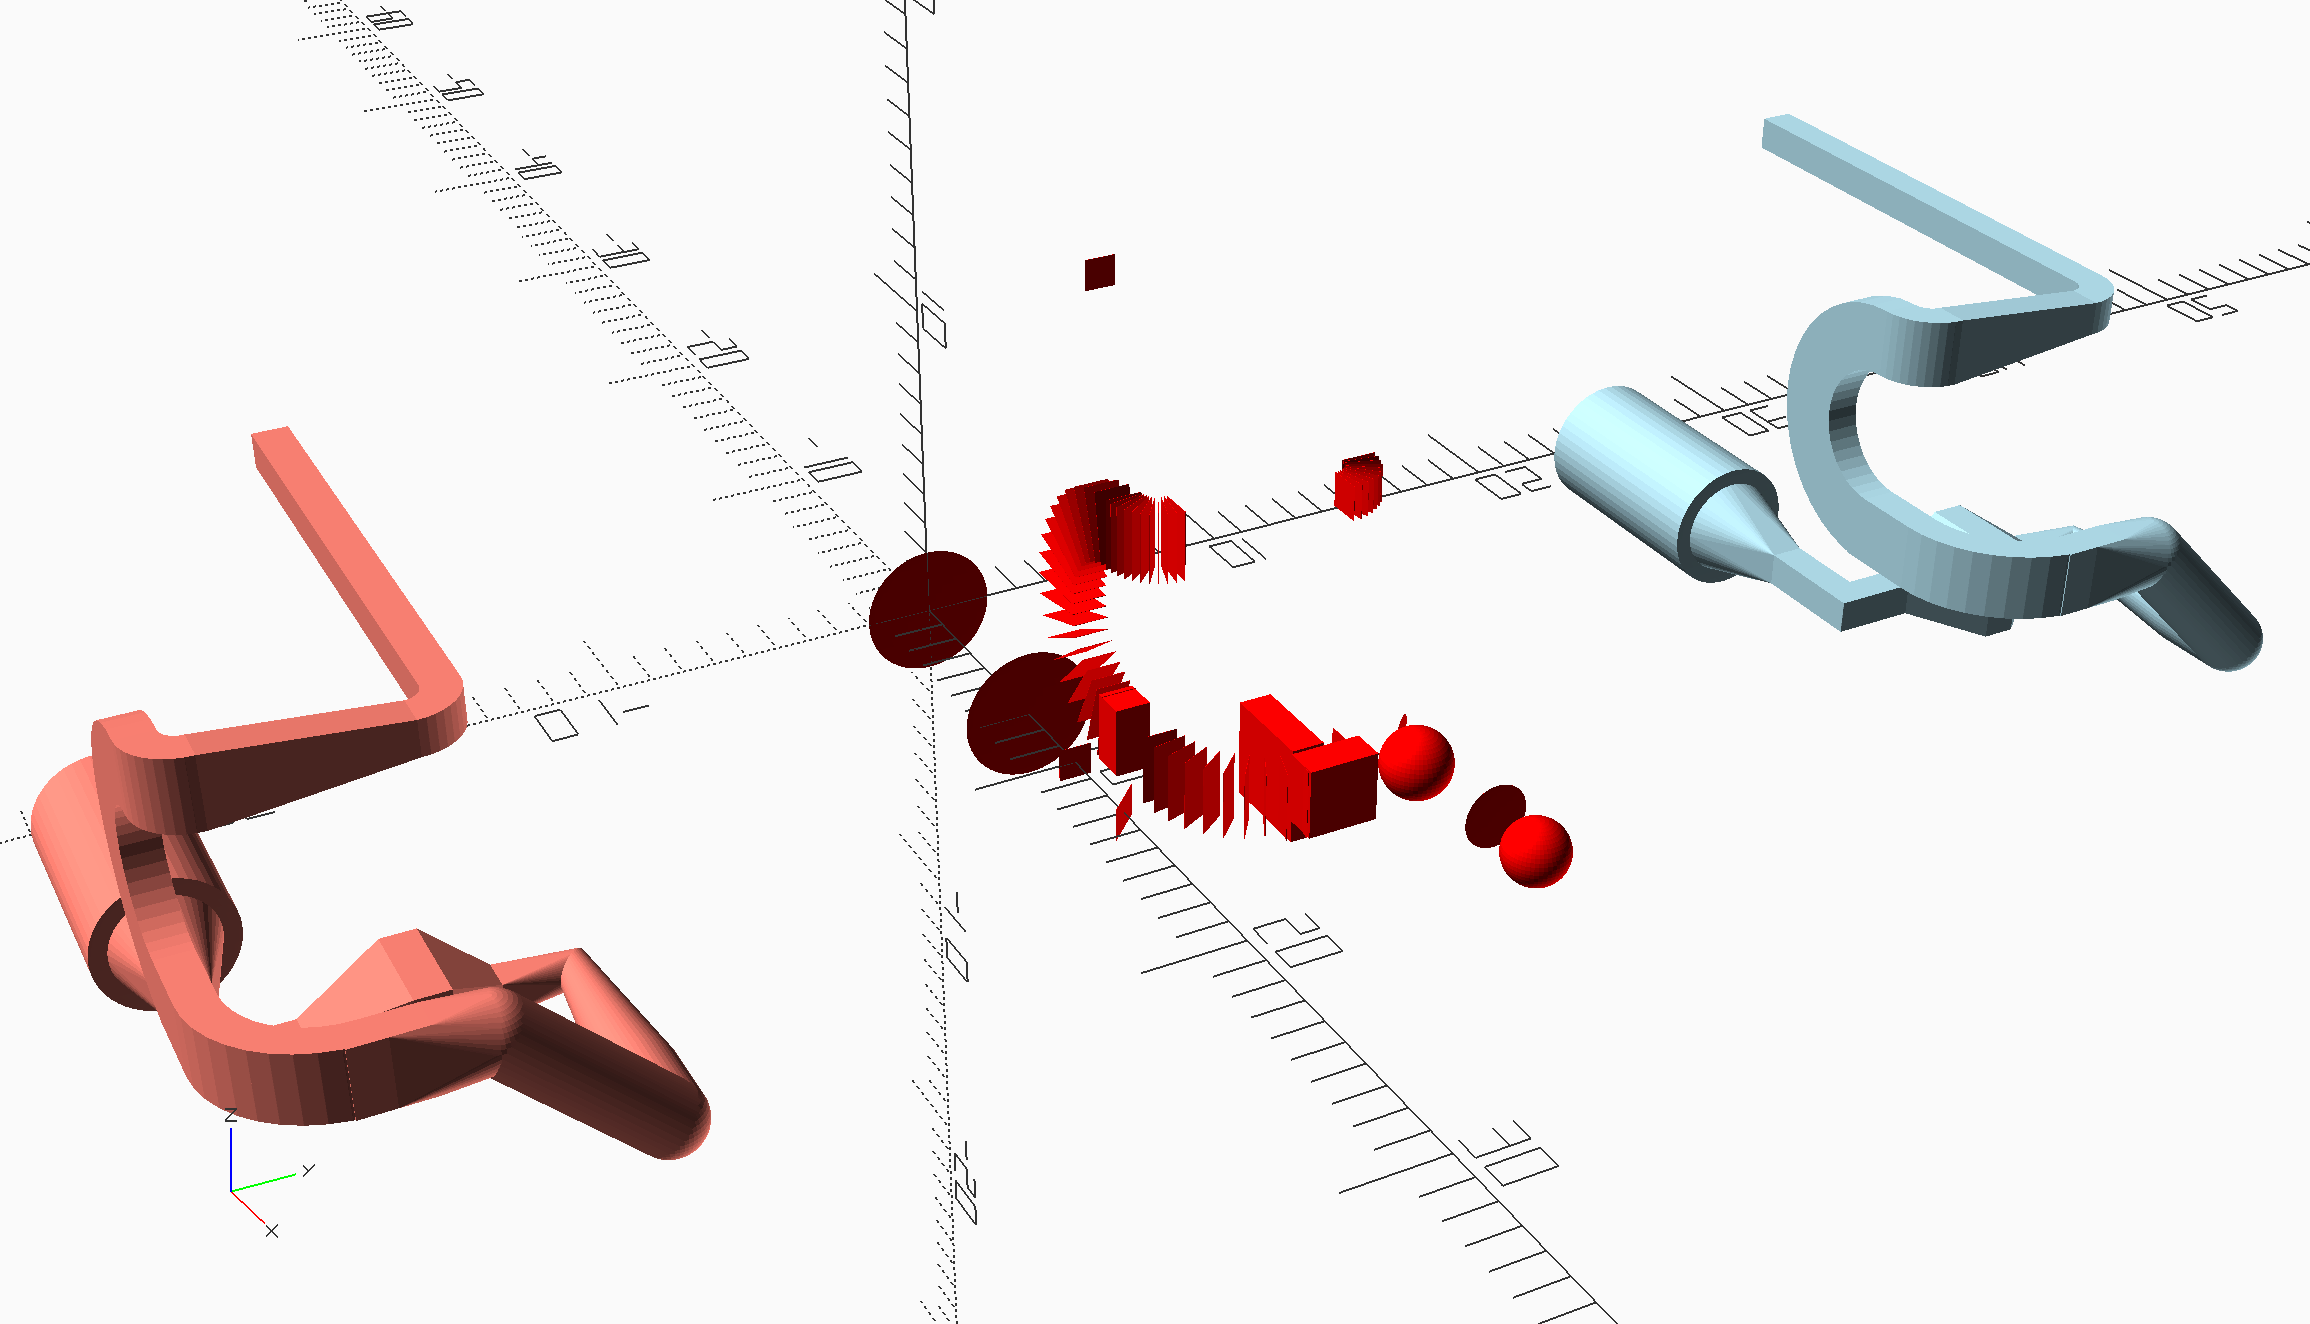
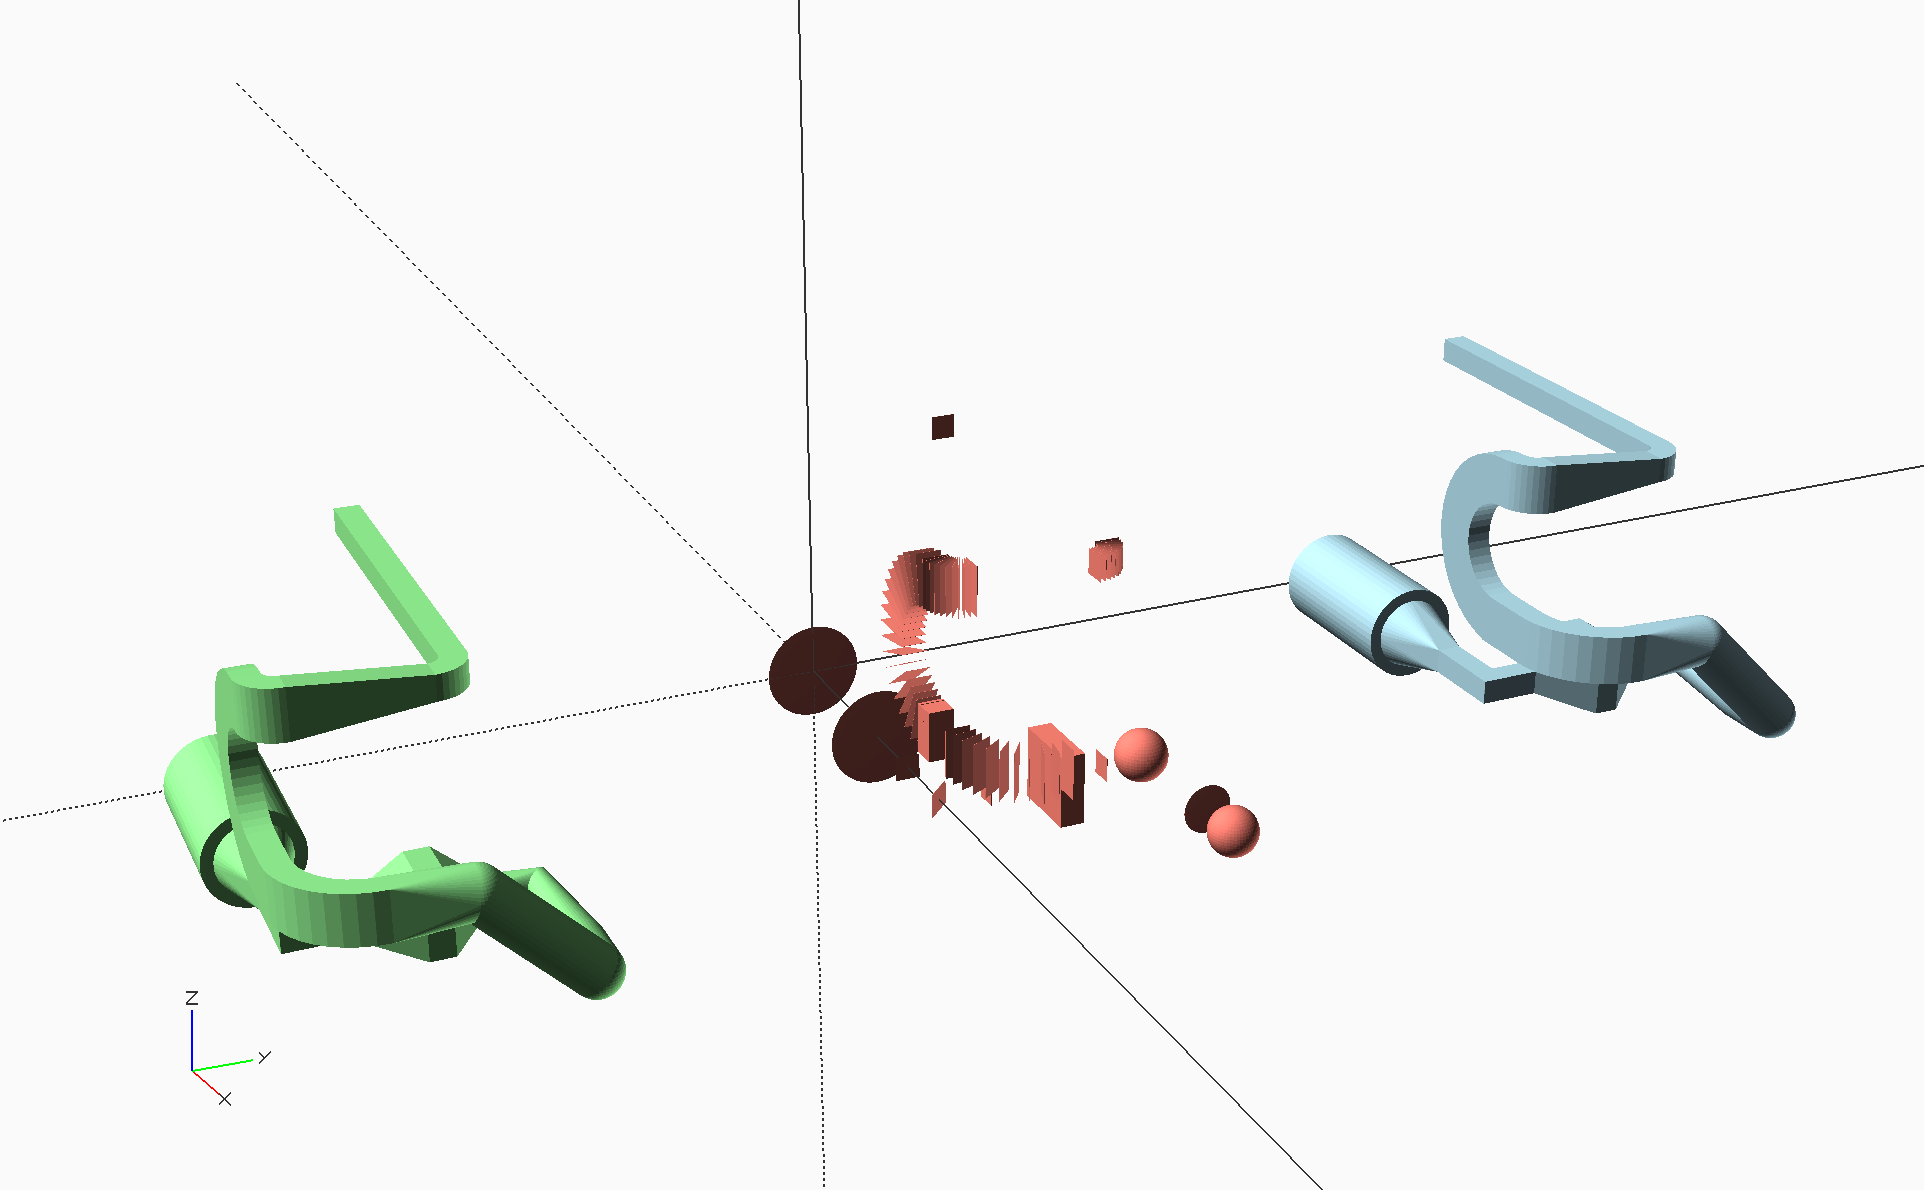
Refactor general example to compare arc and helper functions

diff --git a/polychannel/README.md b/polychannel/README.md
@@ -330,42 +330,70 @@ translate([15, 0, 0])
 
 # Channel with general shapes
 
-## Code
+## Code - compare verbose params and with helper functions
 
 ```
 use <polychannel.scad>
 
 // Note: all examples use relative coordinates to specify shape positions.
 
-eps = 0.01;
-
-params_pos_relative = [
-    ["sphr", [eps, 4, 4], [0, 0, 0], [0, [0, 0, 1]]],
-    ["sphr", [eps, 4, 4], [7, 0, 0], [0, [0, 0, 1]]],
-    ["sphr", [eps, 3, 3], [0, 0, 0], [0, [0, 0, 1]]],
-    ["cube", [eps, 1, 1], [3, 0, 0], [0, [0, 0, 1]]],
-    ["cube", [eps, 1*sqrt(2), 1], [3, 0, 0], [45, [0, 0, 1]]],
-    ["cube", [eps, 1, 1], [0, 2, 0], [90, [0, 0, 1]]],
-    ["cube", [3, 1, 3], [0, 3, 0], [0, [0, 0, 1]]],
-    ["cube", [1, eps, 1], [0, 2, 0], [0, [0, 0, 1]]],
-    ["sphr", [eps, 1*sqrt(2), 1], [0, 2, 0], [45, [0, 0, 1]]],
-    ["sphr", [eps, 2, 2], [5, 0, 0], [0, [0, 0, 1]]],
-    ["sphr", [2, 2, 2], [2, 0, 0], [0, [0, 0, 1]]],
-    ["sphr", [2, 2, 2], [0, -4, 4], [0, [0, 0, 1]]],
-    ["cube", [1, eps, 2], [0, -3, 0], [0, [0, 0, 1]]],
-    each arc_xy_rel_position("cube", [1, eps, 2], radius=3, angle1=0, angle2=-90, n=10),
-    ["cube", [1, 1, 2], [-2, 0, 0], [0, [0, 0, 1]]],
-    each arc_xz_rel_position("cube", [2, 1, eps], radius=3, angle1=-90, angle2=-270, n=20),
-    each arc_xy_rel_position("cube", [1, eps, 2], radius=1, angle1=-90, angle2=0, n=10),
-    ["cube", [1, eps, 1], [0, 5, 0], [0, [0, 0, 1]]],
-    each arc_xy_rel_position("cube", [1, eps, 1], radius=1, angle1=0, angle2=90, n=10),
-    ["cube", [eps, 1, 1], [-15, 0, 0], [0, [0, 0, 1]]],
+no_rotation = no_rot();
+n_segs90 = 10;
+params_verbose = [
+    ["sphr", [eps, 4, 4], [0, 0, 0], no_rotation],
+    ["sphr", [eps, 4, 4], [7, 0, 0], no_rotation],
+    ["sphr", [eps, 3, 3], [0, 0, 0], no_rotation],
+    ["cube", [eps, 1, 1], [3, 0, 0], no_rotation],
+    ["cube", [eps, 1*sqrt(2), 1], [3, 0, 0], rot_z(45)],
+    ["cube", [eps, 1, 1], [0, 2, 0], rot_z(90)],
+    ["cube", [3, 1, 3], [0, 3, 0], no_rotation],
+    ["cube", [1, eps, 1], [0, 2, 0], no_rotation],
+    ["sphr", [eps, 1*sqrt(2), 1], [0, 2, 0], rot_z(45)],
+    ["sphr", [eps, 2, 2], [5, 0, 0], no_rotation],
+    ["sphr", [2, 2, 2], [2, 0, 0], no_rotation],
+    ["sphr", [2, 2, 2], [0, -4, 4], no_rotation],
+    ["cube", [1, eps, 2], [0, -3, 0], no_rotation],
+    each arc_xy("cube", [1, eps, 2], radius=3, angle1=0, delta_angle=-90, n=n_segs90),
+    ["cube", [1, 1, 2], [-2, 0, 0], no_rotation],
+    each arc_xz("cube", [2, 1, eps], radius=3, angle1=-90, delta_angle=-180, n=2*n_segs90),
+    each arc_xy("cube", [1, eps, 2], radius=1, angle1=-90, delta_angle=90, n=n_segs90),
+    ["cube", [1, eps, 1], [0, 5, 0], no_rotation],
+    each arc_xy("cube", [1, eps, 1], radius=1, angle1=0, delta_angle=90, n=n_segs90),
+    ["cube", [eps, 1, 1], [-15, 0, 0], no_rotation],
 ];
-params_pos_absolute = rel_to_abs_positions(params_pos_relative);
 
-polychannel(params_pos_relative, clr="red", show_only_shapes=true);
-translate([0, 25, 0]) polychannel(params_pos_absolute, relative_positions=false);
-translate([0, -25, 0]) polychannel(params_pos_relative, clr="Salmon");
+function cs(size, position, ang=[0, [0,0,1]]) = cube_shape(size, position, ang);
+function ss(size, position, ang=[0, [0,0,1]]) = sphere_shape(size, position, ang);
+stay_same_position = [0, 0, 0];
+params_with_helper_functions = [
+    ss([eps, 4, 4], [0, 0, 0]),
+    ss([eps, 4, 4], [7, 0, 0]),
+    ss([eps, 3, 3], stay_same_position),
+    cs([eps, 1, 1], [3, 0, 0]),
+    cs([eps, 1*sqrt(2), 1], [3, 0, 0], rot_z(45)),
+    cs([eps, 1, 1], [0, 2, 0], rot_z(90)),
+    cs([3, 1, 3], [0, 3, 0]),
+    cs([1, eps, 1], [0, 2, 0]),
+    ss([eps, 1*sqrt(2), 1], [0, 2, 0], rot_z(45)),
+    ss([eps, 2, 2], [5, 0, 0]),
+    ss([2, 2, 2], [2, 0, 0]),
+    ss([2, 2, 2], [0, -4, 4]),
+    each set_first_position(
+        arc_xy("cube", [1, eps, 2], radius=3, angle1=0, delta_angle=-90, n=n_segs90),
+        pos=[0, -3, 0]),
+    each set_first_position(
+        arc_xz("cube", [2, 1, eps], radius=3, angle1=-90, delta_angle=-180, n=2*n_segs90),
+        pos=[-2, 0, 0]),
+    each arc_xy("cube", [1, eps, 2], radius=1, angle1=-90, delta_angle=90, n=n_segs90),
+    each set_first_position(
+        arc_xy("cube", [1, eps, 1], radius=1, angle1=0, delta_angle=90, n=n_segs90),
+        pos=[0, 5, 0]),
+    cs([eps, 1, 1], [-15, 0, 0]),
+];
+
+polychannel(params_verbose, clr="Salmon", show_only_shapes=true);
+translate([0, 25, 0]) polychannel(params_verbose);
+translate([0, -25, 0]) polychannel(params_with_helper_functions, clr="lightgreen");
 ```
 
 ## Result

diff --git a/polychannel/notes-polychannel.md b/polychannel/notes-polychannel.md
@@ -139,7 +139,7 @@ Try creating an arc with intersection of cubes rotated and moved along an arc. L
 - &#9989; Create shorthand functions for cube and sphere shapes to reduce verbosity, `shorter_shape_pos_approach.scad`.
 - &#9989; Re-do all arc functions to use starting angle and delta angle.
 - &#9989; Create map of combinations of starting angles and delta angles for all arc functions.
-- Re-do examples to make use of new arc functions.
+- &#9989; Re-do examples to make use of new arc and helper functions.
 - Update `serpentine.scad` and `serpentine_circularends.scad` to use latest polychannel methods.
 - Update README.md to use new methods.
 - Update project wiki page on polychannel.
